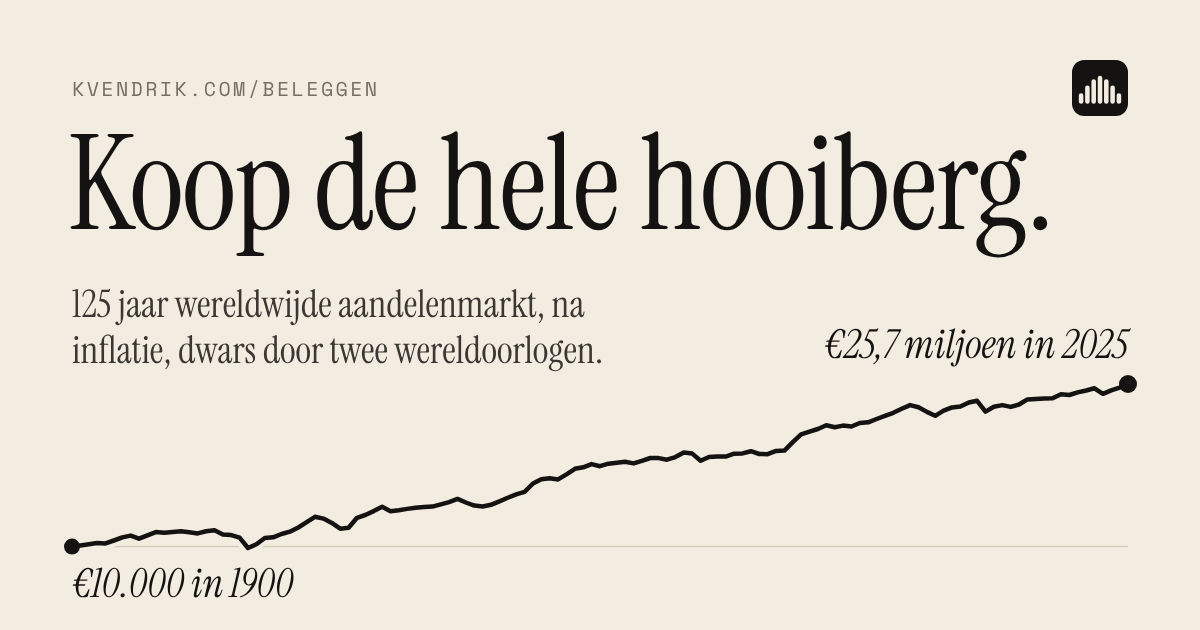
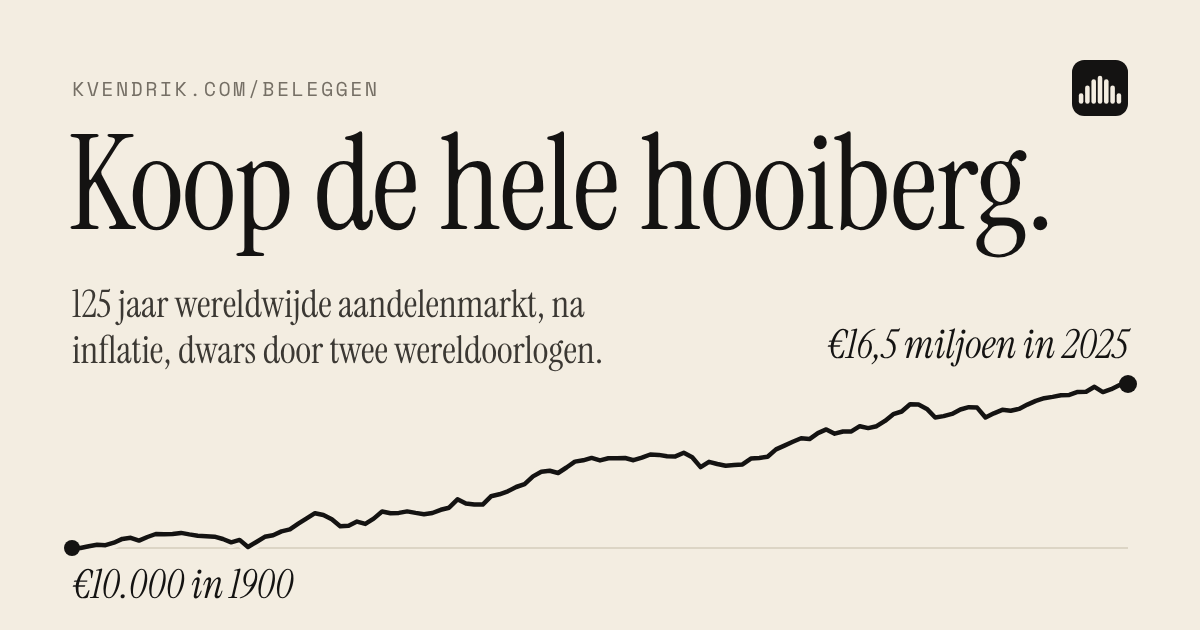
Euro history for the Dutch page, fewer nuances in the text, mixed funds
- /beleggen/ now shows history as a Dutch investor saw it: world stocks
  and bonds converted to guilders (euros from 1999) at year-end exchange
  rates and deflated by Dutch inflation (JST; 2021-2025 ECB and CBS). The
  guilder's 1946-1952 free-market rate is replaced by the official peg.
  EUR 10,000 in 1900 becomes EUR 16.5M (6.1% a year), against $25.7M.
  Switching language swaps the series and rebuilds every chart.
- Nuances leave the running text for tooltips: "history, not a promise"
  sits under "after inflation" by the big number; the note under the
  calculator tabs became a "?"; the years around retirement, lump sums and
  box 3 (being reworked) are one tap away.
- A "Just want to start? Four steps" link near the top.
- Step 3 names one-fund options: Vanguard FTSE All-World (VWRL), or one
  mixed fund such as LifeStrategy 80% (VGRO in Canada).

Claude-Session: https://claude.ai/code/session_01HLwVeDYz1TyXAk1VNp3cfb

diff --git a/public/investing/i18n.js b/public/investing/i18n.js
@@ -7,7 +7,10 @@ window.I18N = (function () {
   const en = {
     locale: "en-US", cur: "$", K: "K", M: "M", B: "B", Mlong: " million",
     title: "Buy the Haystack",
-    term_inflation: "Prices rise over time, so money buys a little less each year. “After inflation” means the numbers are corrected for that: they show what your money could buy, not just how many dollars it was.",
+    term_lumpsum: "In Vanguard’s research, putting a lump sum in at once beat spreading it over a year about two times in three, because markets rise more often than they fall. Spreading it out is fine if it helps you sleep.",
+    term_box3: "The Netherlands taxes savings and investments in box 3. The rules are being rewritten: a tax on actual returns is planned from 2028. Check the current rules on belastingdienst.nl before you start.",
+    term_withdraw: "A crash right before or after you start living off your savings hurts far more than one at 30: you sell low to pay the bills. A common rule of thumb is to take out about 3 to 4% of your savings in the first year, then adjust for inflation.",
+    term_inflation: "Prices rise over time, so money buys a little less each year. “After inflation” means these numbers are corrected for that: they show what your money could buy. And it’s history, not a promise: further down, we plan with less.",
     term_bonds: "A bond is a loan to a government or a company. It pays you a fixed interest and gives your money back at the end. Steadier than stocks, but it grows less.",
     term_ter: "The total expense ratio: what a fund charges each year, as a share of what you have in it. 0.2% means $2 a year for every $1,000.",
     term_broker: "The company where you open an account to buy and hold your funds, like a bank account for investments.",
@@ -16,7 +19,7 @@ window.I18N = (function () {
     term_correlation: "How closely two sets of numbers move together: 1 means in lockstep, 0 means no relation at all.",
     description: "Index investing in the whole world, the Bogle way: 125 years of stock returns, what an index fund is, what you own, and what your money could become.",
     dir: (up) => (up ? "up" : "down"),
-    period: (a, b, n) => `${a}–${b} · ${years(n, "year", "years")} · after inflation`,
+    period: (a, b, n) => `${a}–${b} · ${years(n, "year", "years")}`, afterInfl: "after inflation",
     hint: (touch) => (touch ? "Drag the edges to zoom in · drag across the chart for any year" : "Drag the edges to zoom in · hover the chart for any year"),
     at: (v, y) => `${v} in ${y}`,
     tipReturn: (p) => `${p} after inflation`,
@@ -56,15 +59,16 @@ window.I18N = (function () {
     mixAvgP: (a, b) => `growth after inflation, ${a}–${b}`, mixFall: "Deepest fall", mixFallP: "from a high to the bottom",
     mixDown: "Down years", mixDownP: "years that ended lower",
     mixDesc: (s, b, avg, worst, fall) => `With ${s}% stocks and ${b}% bonds from 1950 to 2025: ${avg} a year on average after inflation, worst year ${worst}, deepest fall ${fall}.`,
-    note: (exp, first, last, geo) => exp === "plan"
-      ? `Real years from ${first}–${last} in random order, each lowered a little so the average is 5% a year. The past is no promise, so planning with less is the careful choice.`
-      : `Real years from ${first}–${last} in random order, as they happened: ${geo} a year on average. That flatters the past a little, because markets that went to zero aren’t in the data.`,
+    note: (first, last, geo) => `Both draw real years from ${first}–${last} in random order. Plan lowers each year a little, so the average is 5%: the past is no promise, so planning with less is the careful choice. History uses them as they happened, ${geo} a year on average, which flatters the past a little: markets that went to zero aren’t in the data.`,
   };
 
   const nl = {
     locale: "nl-NL", cur: "€", K: "k", M: " mln", B: " mld", Mlong: " miljoen",
     title: "Koop de hele hooiberg",
-    term_inflation: "Prijzen stijgen, dus met geld koop je elk jaar iets minder. “Na inflatie” betekent dat de getallen daarvoor zijn gecorrigeerd: ze laten zien wat je geld kon kopen. Deze reeks volgt de wereldmarkt in dollars, na Amerikaanse inflatie; we tonen hem in euro’s. Voor een Nederlandse belegger liep het pad door wisselkoersen en Nederlandse inflatie anders, maar op lange termijn in dezelfde orde van grootte: wisselkoersen volgen op den duur grotendeels de verschillen in inflatie.",
+    term_lumpsum: "In onderzoek van Vanguard won alles in één keer inleggen het in ongeveer twee van de drie gevallen van spreiden over een jaar, omdat beurzen vaker stijgen dan dalen. Spreiden is prima als je er beter van slaapt.",
+    term_box3: "Nederland belast sparen en beleggen in box 3. Die regels worden herschreven: vanaf 2028 staat een belasting op het werkelijke rendement gepland. Kijk voor je begint naar de actuele regels op belastingdienst.nl.",
+    term_withdraw: "Een crash vlak voor of na het moment dat je van je spaargeld gaat leven, doet veel meer pijn dan een op je dertigste: je verkoopt laag om de rekeningen te betalen. Een gangbare vuistregel is in het eerste jaar zo’n 3 tot 4% op te nemen en dat daarna mee te laten groeien met de inflatie.",
+    term_inflation: "Prijzen stijgen, dus met geld koop je elk jaar iets minder. “Na inflatie” betekent dat de getallen daarvoor zijn gecorrigeerd: ze laten zien wat je geld kon kopen, zoals een Nederlandse belegger het zag, in guldens en euro’s. En het is geschiedenis, geen belofte: verderop rekenen we met minder.",
     term_bonds: "Een obligatie is een lening aan een overheid of bedrijf. Je krijgt een vaste rente en aan het eind je geld terug. Stabieler dan aandelen, maar het groeit minder.",
     term_ter: "De totale kostenratio: wat een fonds per jaar rekent, als deel van wat je erin hebt. 0,2% betekent €2 per jaar voor elke €1.000.",
     term_broker: "Het bedrijf waar je een rekening opent om fondsen te kopen en te bewaren, een soort bankrekening voor beleggingen.",
@@ -72,10 +76,10 @@ window.I18N = (function () {
     term_bp: "Een basispunt is een honderdste procentpunt. 0,44 basispunt is 0,0044%.",
     term_correlation: "Hoe sterk twee reeksen getallen samen bewegen: 1 is precies gelijk op, 0 is geen enkel verband.",
     description: "Wereldwijd indexbeleggen zoals Bogle het bedoelde: 125 jaar beursrendement, wat een indexfonds is, wat je bezit en wat je geld kan worden.",
-    ogDescription: "€10.000 in de wereldwijde aandelenmarkt in 1900 werd na inflatie €25,7 miljoen, dwars door twee wereldoorlogen heen. Waarom alles bezitten het simpelste plan is.",
-    ogImageAlt: "Koop de hele hooiberg. Een lijn die stijgt van €10.000 in 1900 naar €25,7 miljoen in 2025, na inflatie.",
+    ogDescription: "€10.000 in de wereldwijde aandelenmarkt in 1900 werd na inflatie €16,5 miljoen, dwars door twee wereldoorlogen heen. Waarom alles bezitten het simpelste plan is.",
+    ogImageAlt: "Koop de hele hooiberg. Een lijn die stijgt van €10.000 in 1900 naar €16,5 miljoen in 2025, na inflatie.",
     dir: (up) => (up ? "hoger" : "lager"),
-    period: (a, b, n) => `${a}–${b} · ${n} jaar · na inflatie`,
+    period: (a, b, n) => `${a}–${b} · ${n} jaar`, afterInfl: "na inflatie",
     hint: (touch) => (touch ? "Sleep aan de randen om in te zoomen · sleep over de grafiek voor een jaar" : "Sleep aan de randen om in te zoomen · wijs een jaar aan in de grafiek"),
     at: (v, y) => `${v} in ${y}`,
     tipReturn: (p) => `${p} na inflatie`,
@@ -115,9 +119,7 @@ window.I18N = (function () {
     mixAvgP: (a, b) => `groei na inflatie, ${a}–${b}`, mixFall: "Diepste daling", mixFallP: "van een top tot de bodem",
     mixDown: "Jaren in de min", mixDownP: "jaren die lager eindigden",
     mixDesc: (s, b, avg, worst, fall) => `Met ${s}% aandelen en ${b}% obligaties van 1950 tot 2025: gemiddeld ${avg} per jaar na inflatie, slechtste jaar ${worst}, diepste daling ${fall}.`,
-    note: (exp, first, last, geo) => exp === "plan"
-      ? `Echte jaren uit ${first}–${last} in willekeurige volgorde, elk iets verlaagd zodat het gemiddelde 5% per jaar is. Het verleden is geen belofte, dus rekenen met minder is de voorzichtige keuze.`
-      : `Echte jaren uit ${first}–${last} in willekeurige volgorde, zoals ze waren: gemiddeld ${geo} per jaar. Dat is iets te mooi, want beurzen die naar nul gingen zitten niet in de data.`,
+    note: (first, last, geo) => `Allebei trekken ze echte jaren uit ${first}–${last} in willekeurige volgorde. Plan verlaagt elk jaar iets, zodat het gemiddelde 5% is: het verleden is geen belofte, dus rekenen met minder is de voorzichtige keuze. Historisch gebruikt ze zoals ze waren, gemiddeld ${geo} per jaar. Dat is iets te mooi: beurzen die naar nul gingen zitten niet in de data.`,
   };
 
   const events = [
@@ -181,7 +183,7 @@ window.I18N = (function () {
     cite: "John C. Bogle, oprichter van Vanguard",
 
     "hist@aria-label": "125 jaar aandelen, wereldwijd",
-    histLede: "Twee wereldoorlogen, een pandemie, een depressie, oliecrises, bubbels en crashes. Ze deden allemaal pijn. Geen ervan hield de groei tegen. Alle bedragen zijn <button type=\"button\" class=\"term\" data-term=\"inflation\" aria-expanded=\"false\">na inflatie</button>. En het is geschiedenis, geen belofte: verderop rekenen we met minder.",
+    histLede: "Twee wereldoorlogen, een pandemie, een depressie, oliecrises, bubbels en crashes. Ze deden allemaal pijn. Geen ervan hield de groei tegen.",
     "view@aria-label": "Weergave",
     viewGrowth: "Groei", viewBars: "Per jaar",
     reset: "Toon alles",
@@ -190,7 +192,7 @@ window.I18N = (function () {
     evSum: "Wat er gebeurde in de slechte jaren",
     tableSum: "Alle cijfers per jaar",
     srcSum: "Bronnen",
-    source: "Alle bedragen zijn berekend in dollars, na Amerikaanse inflatie, en in euro’s getoond. Bronnen: 1900–2020, de Jordà-Schularick-Taylor Macrohistory Database (<a href=\"https://www.macrohistory.net/database/\">macrohistory.net</a>): totaalrendement op aandelen in 16 ontwikkelde landen, in Amerikaanse dollars, gewogen naar de omvang van elke economie, min de Amerikaanse inflatie. 2021–2025: het netto totaalrendement van de MSCI ACWI in dollars, min de Amerikaanse inflatie. De Duitse hyperinflatie van 1923 en de munthervorming van 1948 zijn weggelaten, omdat de data die jaren niet zuiver kan plaatsen. Deze reeks is iets te rooskleurig: beurzen die werden weggevaagd, zoals de Russische in 1917, en de slechtste oorlogsjaren van Duitsland en Japan ontbreken. Het Dimson-Marsh-Staunton Global Investment Returns Yearbook, dat Ben Felix vaak aanhaalt, telt die wel mee en komt uit op ongeveer 5% per jaar na inflatie sinds 1900. De bedragen staan hier in euro’s, maar gerekend is in dollars na Amerikaanse inflatie. Over zo’n lange periode ligt het rendement na inflatie voor een belegger in euro’s in dezelfde orde van grootte.",
+    source: "Op deze pagina omgerekend naar guldens (vanaf 1999 euro’s) met de wisselkoers aan het eind van elk jaar, voor 1946–1952 de officiële koers, en na Nederlandse inflatie (Jordà-Schularick-Taylor; vanaf 2021 ECB en CBS). Bronnen: 1900–2020, de Jordà-Schularick-Taylor Macrohistory Database (<a href=\"https://www.macrohistory.net/database/\">macrohistory.net</a>): totaalrendement op aandelen in 16 ontwikkelde landen, in Amerikaanse dollars, gewogen naar de omvang van elke economie, min de Amerikaanse inflatie. 2021–2025: het netto totaalrendement van de MSCI ACWI in dollars, min de Amerikaanse inflatie. De Duitse hyperinflatie van 1923 en de munthervorming van 1948 zijn weggelaten, omdat de data die jaren niet zuiver kan plaatsen. Deze reeks is iets te rooskleurig: beurzen die werden weggevaagd, zoals de Russische in 1917, en de slechtste oorlogsjaren van Duitsland en Japan ontbreken. Het Dimson-Marsh-Staunton Global Investment Returns Yearbook, dat Ben Felix vaak aanhaalt, telt die wel mee en komt uit op ongeveer 5% per jaar na inflatie sinds 1900. De bedragen staan hier in euro’s, maar gerekend is in dollars na Amerikaanse inflatie. Over zo’n lange periode ligt het rendement na inflatie voor een belegger in euro’s in dezelfde orde van grootte.",
 
     etfEye: "Het gereedschap",
     etfH: "Wat is een indexfonds?",
@@ -228,9 +230,9 @@ window.I18N = (function () {
     riskLede: "Aandelen laten je geld groeien, <button type=\"button\" class=\"term\" data-term=\"bonds\" aria-expanded=\"false\">obligaties</button> houden het stabiel. Hoe je die twee verdeelt is de enige grote keuze in dit plan, en die gaat over jou, niet over de markt.",
     sMix: "Aandelen",
     mixKeyAll: "100% aandelen",
-    riskP1: "Bogles vuistregel: houd ongeveer je leeftijd aan obligaties aan, dus 30% op je dertigste en 60% op je zestigste. Ben Felix zou eraan toevoegen dat leeftijd maar een deel van het verhaal is. Het gaat om hoeveel risico je je kunt veroorloven, hoeveel je nodig hebt om je doelen te halen, en hoeveel je kunt uitzitten zonder te verkopen. Geld dat je binnen een paar jaar nodig hebt, hoort helemaal niet in aandelen. De verdeling telt het zwaarst in de jaren vlak voor en na het moment dat je van je spaargeld gaat leven: een crash dan doet veel meer pijn dan een op je dertigste.",
+    riskP1: "Bogles vuistregel: houd ongeveer je leeftijd aan obligaties aan, dus 30% op je dertigste en 60% op je zestigste. Ben Felix zou eraan toevoegen dat leeftijd maar een deel van het verhaal is. Het gaat om hoeveel risico je je kunt veroorloven, hoeveel je nodig hebt om je doelen te halen, en hoeveel je kunt uitzitten zonder te verkopen. Geld dat je binnen een paar jaar nodig hebt, hoort helemaal niet in aandelen. De verdeling telt het zwaarst rond het moment dat je <button type=\"button\" class=\"term\" data-term=\"withdraw\" aria-expanded=\"false\">ervan gaat leven</button>.",
     riskP2: "<b>Rebalancen</b> houdt je verdeling waar je die koos. Eén keer per jaar, of als hij meer dan zo’n vijf procentpunt afwijkt, verkoop je een beetje van wat steeg en koop je bij wat daalde. Zo koop je vanzelf laag en verkoop je hoog, zonder iets te hoeven voorspellen.",
-    riskNote: "De grafiek toont 1995–2025 op een gewone schaal, zodat je de schommelingen ziet. De rente daalde in die jaren meestal, wat obligaties hielp, tot 2022: toen raakte de inflatie aandelen en obligaties tegelijk. De cijfers eronder gaan over 1950–2025, na inflatie. Obligaties: tot en met 2020 de staatsobligaties van dezelfde 16 landen, in dollars (Jordà-Schularick-Taylor); vanaf 2021 de Bloomberg Global Aggregate-obligatie-index, in dollars. Vanaf 1900 is het beeld voor obligaties harder: de inflatie rond de twee wereldoorlogen kostte ze ongeveer twee derde van hun waarde. Obligaties dempen crashes; ze beschermen je niet tegen inflatie. Dit zijn dollarobligaties zonder valuta-afdekking, die meer schommelen dan wat je zelf zou aanhouden: kies voor het obligatiedeel obligaties in euro’s of afgedekt naar de euro.",
+    riskNote: "De grafiek toont 1995–2025 op een gewone schaal, zodat je de schommelingen ziet. De rente daalde in die jaren meestal, wat obligaties hielp, tot 2022: toen raakte de inflatie aandelen en obligaties tegelijk. De cijfers eronder gaan over 1950–2025, na inflatie. Obligaties: tot en met 2020 de staatsobligaties van dezelfde 16 landen (Jordà-Schularick-Taylor), vanaf 2021 de Bloomberg Global Aggregate-obligatie-index; alles omgerekend naar euro’s en na Nederlandse inflatie. Vanaf 1900 is het beeld voor obligaties harder: de inflatie rond de twee wereldoorlogen kostte ze ongeveer twee derde van hun waarde. Obligaties dempen crashes; ze beschermen je niet tegen inflatie. Dit zijn buitenlandse obligaties zonder valuta-afdekking, die meer schommelen dan wat je zelf zou aanhouden: kies voor het obligatiedeel obligaties in euro’s of afgedekt naar de euro.",
     futEye: "Rente op rente, eerlijk berekend",
     futH: "Wat je geld kan worden",
     futLede: "Een rekenmachine met één vast rendement tekent een gladde lijn die in het echt nooit voorkomt. Deze rekent 10.000 mogelijke toekomsten door, elk opgebouwd uit echte beursjaren in willekeurige volgorde: goede jaren, slechte jaren en soms een paar slechte op rij.",
@@ -251,6 +253,8 @@ window.I18N = (function () {
     rule5: "<h3>Houd koers.</h3><p>Bogles motto. Het rendement in de grafiek hierboven ging naar wie na de slechte jaren nog belegd was, niet naar wie was uitgestapt.</p>",
 
     "h1": "Koop de hele hooiberg.",
+    "expQ@aria-label": "Wat is het verschil?",
+    "jump": "Wil je gewoon beginnen? Vier stappen ↓",
     /* footnotes */
     "fnNotes": "Toelichting &amp; bronnen",
     "fnCredits": "Bronnen van de tekeningen",
@@ -259,8 +263,8 @@ window.I18N = (function () {
     "stepsH": "Begin in vier stappen",
     "step1": "<h4>Eerst een buffer.</h4><p>Zet drie tot zes maanden aan uitgaven op een spaarrekening. Geld dat je binnen zo’n vijf jaar nodig hebt, hoort niet in aandelen.</p>",
     "step2": "<h4>Open een rekening.</h4><p>Elke <button type=\"button\" class=\"term\" data-term=\"broker\" aria-expanded=\"false\">broker</button> met een goedkoop wereldwijd indexfonds of ETF is prima. In Nederland doet <a href=\"https://www.meesman.nl/\">Meesman</a> sinds 2005 aan indexbeleggen: een wereldfonds dat de hele markt naar omvang volgt, met een licht filter dat de slechtste bedrijven weglaat. Vergelijk de totale kosten per jaar: fonds en platform samen.</p>",
-    "step3": "<h4>Kies één wereldfonds.</h4><p>Voeg een obligatiefonds toe als je een rustiger rit wilt, in de verdeling die je hierboven koos. Meer heb je niet nodig.</p>",
-    "step4": "<h4>Automatiseer het en kijk weg.</h4><p>Stel een maandelijkse overboeking in en laat die lopen; herbalanceer één keer per jaar. Heb je een bedrag ineens? In onderzoek van Vanguard won alles in één keer beleggen het in ongeveer twee van de drie gevallen van spreiden in de tijd, omdat beurzen vaker stijgen dan dalen. Spreiden is prima als je er beter van slaapt.</p>",
+    "step3": "<h4>Kies één fonds.</h4><p>Een wereldwijd aandelenfonds zoals <a href=\"https://www.nl.vanguard/professional/product/etf/equity/9505/vanguard-ftse-all-world-ucits-etf-usd-distributing\" rel=\"noopener\">FTSE All-World (VWRL)</a> van Vanguard is de hele hooiberg. Wil je er obligaties bij? Eén gemengd fonds doet allebei en herbalanceert voor je, zoals <a href=\"https://www.nl.vanguard/professional/product/etf/lifestrategy/9496/lifestrategy-80-equity-ucits-etf-eur-accumulating\" rel=\"noopener\">LifeStrategy 80%</a> van Vanguard: 80% aandelen, 20% obligaties.</p>",
+    "step4": "<h4>Automatiseer het en kijk weg.</h4><p>Stel een maandelijkse overboeking in en laat die lopen. Een bedrag ineens? Alles in één keer inleggen <button type=\"button\" class=\"term\" data-term=\"lumpsum\" aria-expanded=\"false\">wint meestal</button>. Over belasting: beleggingen vallen in box 3, en die wordt <button type=\"button\" class=\"term\" data-term=\"box3\" aria-expanded=\"false\">op de schop genomen</button>.</p>",
     /* esg */
     "esgEye": "Groen beleggen",
     "esgH": "Kun je alleen het groene deel kopen?",

diff --git a/public/investing/index.html b/public/investing/index.html
@@ -172,6 +172,13 @@ details+details{margin-top:0}
 .term-pop{position:absolute;z-index:30;width:max-content;max-width:min(320px,calc(100vw - 32px));padding:14px 16px;background:var(--ink);color:var(--paper);font:400 15px/1.5 var(--f-body);border-radius:2px;box-shadow:0 10px 30px -12px rgba(20,19,18,.55);transform-origin:var(--ox,50%) top;animation:term-in .18s var(--ease)}
 .term-pop[hidden]{display:none}
 @keyframes term-in{from{opacity:0;transform:translateY(-4px) scale(.98)}}
+.seg-q{display:inline-flex;align-items:center;gap:var(--s-3)}
+.term.term-q{position:relative;display:inline-grid;place-items:center;width:30px;height:30px;border:1.5px solid var(--ink);border-radius:50%;font:700 13px/1 var(--f-mono);text-decoration:none;cursor:pointer}
+.term.term-q::before{content:"";position:absolute;inset:-8px}
+.term.term-q[aria-expanded="true"]{background:var(--ink);color:var(--paper)}
+.jump{display:inline-flex;align-items:center;min-height:44px;margin-top:var(--s-3);color:var(--ink-2);text-decoration:underline;text-decoration-color:var(--rule);text-underline-offset:4px}
+@media (hover:hover) and (pointer:fine){.jump:hover{text-decoration-color:var(--ink)}}
+.steps{scroll-margin-top:var(--s-6)}
 /* start in four steps */
 .steps{margin-top:var(--s-9)}
 .steps-h{font-size:var(--t-h2);line-height:1.05;margin:var(--s-3) 0 var(--s-6)}
@@ -460,6 +467,7 @@ table.data :is(th,td):first-child{text-align:left}
   <header class="hero">
     <h1 data-t="h1">Buy the haystack.</h1>
     <p class="lede" data-t="heroLede">A slow, boring and very old way to grow money: own a little of every company in the world, pay almost nothing for it, and wait.</p>
+    <a class="jump mono" href="#start" data-t="jump">Just want to start? Four steps ↓</a>
     <div class="callout">
       <p class="count"><span class="from" id="calloutFrom">$10,000</span><span class="tail"><span class="arrow">→</span><span class="to" id="calloutTo"></span></span></p>
       <span class="mono tab" id="period"></span>
@@ -491,7 +499,7 @@ table.data :is(th,td):first-child{text-align:left}
   </header>
 
   <section id="history" class="more" aria-label="125 years of the world’s stock market" data-ta="hist@aria-label">
-    <p class="lede" data-t="histLede">Two world wars, a pandemic, a depression, oil shocks, bubbles and crashes. Every one of them hurt. None of them stopped it. All numbers are <button type="button" class="term" data-term="inflation" aria-expanded="false">after inflation</button>. And it’s history, not a promise: further down, we plan with less.</p>
+    <p class="lede" data-t="histLede">Two world wars, a pandemic, a depression, oil shocks, bubbles and crashes. Every one of them hurt. None of them stopped it.</p>
 
 
     <div class="stats" id="histStats"></div>
@@ -639,7 +647,7 @@ table.data :is(th,td):first-child{text-align:left}
     <p class="sr-only" id="mixDesc"></p>
     <div class="stats" id="mixStats"></div>
     <div class="prose">
-      <p data-t="riskP1">Bogle’s rule of thumb was to hold roughly your age in bonds: 30% at 30, 60% at 60. Ben Felix would add that age is only part of it. What counts is how much risk you can afford, how much you need to reach your goals, and how much you can sit through without selling. Money you’ll need within a few years doesn’t belong in stocks at all. The mix matters most in the years just before and after you start living off your savings: a crash then hurts far more than one at 30.</p>
+      <p data-t="riskP1">Bogle’s rule of thumb was to hold roughly your age in bonds: 30% at 30, 60% at 60. Ben Felix would add that age is only part of it. What counts is how much risk you can afford, how much you need to reach your goals, and how much you can sit through without selling. Money you’ll need within a few years doesn’t belong in stocks at all. The mix matters most around the time you start <button type="button" class="term" data-term="withdraw" aria-expanded="false">living off it</button>.</p>
       <p data-t="riskP2"><b>Rebalancing</b> keeps your mix where you chose it. Once a year, or when it drifts more than about five percentage points, sell a little of what grew and buy what fell. It quietly makes you buy low and sell high, without having to predict anything.</p>
     </div>
     <details class="fn"><summary data-t="fnNotes">Notes &amp; sources</summary><p class="note" data-t="riskNote">The chart shows 1995–2025 on a normal scale, so the swings are visible. Interest rates mostly fell in those years, which helped bonds, until 2022, when inflation hit stocks and bonds at the same time. The numbers under it cover 1950–2025, after inflation. Bonds: until 2020 the government bonds of the same 16 countries, in US dollars (Jordà-Schularick-Taylor); from 2021 the Bloomberg Global Aggregate bond index, in US dollars. From 1900 the picture is harsher for bonds: the inflation around the two world wars took about two thirds of their value. Bonds soften crashes; they don’t protect you from inflation. These are unhedged dollar bonds, which swing more than what you’d hold: for the bond half, pick bonds in your own currency or hedged to it.</p></details>
@@ -659,12 +667,14 @@ table.data :is(th,td):first-child{text-align:left}
     <p class="note" style="margin-top:12px" data-t="dragHint">Drag a box sideways, or tap the number to type.</p>
 
     <div class="controls">
-      <div class="seg" role="group" aria-label="Which return to plan with" data-ta="exp@aria-label">
-        <button type="button" data-exp="plan" aria-pressed="true" data-t="expPlan">Plan · 5%</button>
-        <button type="button" data-exp="hist" aria-pressed="false" id="expHist">History</button>
+      <div class="seg-q">
+        <div class="seg" role="group" aria-label="Which return to plan with" data-ta="exp@aria-label">
+          <button type="button" data-exp="plan" aria-pressed="true" data-t="expPlan">Plan · 5%</button>
+          <button type="button" data-exp="hist" aria-pressed="false" id="expHist">History</button>
+        </div>
+        <button type="button" class="term term-q" data-term="exp" id="expQ" aria-expanded="false" aria-label="What’s the difference?" data-ta="expQ@aria-label">?</button>
       </div>
     </div>
-    <p class="note" id="expNote" style="margin-top:0"></p>
 
     <div class="chart" id="mcChart" style="margin-top:20px"><svg id="mcSvg" role="img" aria-label="Fan chart of simulated portfolio values over time" data-ta="mcSvg@aria-label"></svg><div class="tip" id="mcTip" role="status" aria-live="polite"></div></div>
     <div class="legend mono">
@@ -689,14 +699,14 @@ table.data :is(th,td):first-child{text-align:left}
       <div><span class="k">04</span><div data-t="rule4"><h3>Match the risk to your stomach.</h3><p>Stocks can fall by half and stay down for years. If you would sell in a crash, hold some bonds so you won’t. The best plan is the one you can stick to.</p></div></div>
       <div><span class="k">05</span><div data-t="rule5"><h3>Stay the course.</h3><p>Bogle’s phrase. The returns on the chart above went to the people who were still holding after the bad years, not to those who left.</p></div></div>
     </div>
-    <div class="steps">
+    <div class="steps" id="start">
       <span class="mono" data-t="stepsEye">Getting started</span>
       <h3 class="steps-h" data-t="stepsH">Start in four steps</h3>
       <ol class="steps-list">
         <li data-t="step1"><h4>Keep a buffer first.</h4><p>Put three to six months of expenses in a savings account. Money you need within about five years doesn’t belong in stocks.</p></li>
         <li data-t="step2"><h4>Open an account.</h4><p>Any <button type="button" class="term" data-term="broker" aria-expanded="false">broker</button> that sells a cheap total-world index fund or ETF will do. In the Netherlands, <a href="https://www.meesman.nl/">Meesman</a> has done index investing since 2005: a world fund that follows the whole market by size, with a light filter that leaves out the worst companies. Compare the total yearly costs: fund and platform together.</p></li>
-        <li data-t="step3"><h4>Pick one world fund.</h4><p>Add a bond fund if you want a calmer ride, in the mix you chose above. That’s the whole portfolio.</p></li>
-        <li data-t="step4"><h4>Automate it, then look away.</h4><p>Set up a monthly transfer and let it run; rebalance once a year. Got a lump sum? Investing it at once beat spreading it out about two times in three in Vanguard’s research, because markets rise more often than they fall. Spreading it out is fine if it helps you sleep.</p></li>
+        <li data-t="step3"><h4>Pick one fund.</h4><p>A world stock fund like Vanguard’s <a href="https://www.nl.vanguard/professional/product/etf/equity/9505/vanguard-ftse-all-world-ucits-etf-usd-distributing" rel="noopener">FTSE All-World (VWRL)</a> is the whole haystack. Want bonds in it too? One mixed fund does both and rebalances for you, like Vanguard’s <a href="https://www.nl.vanguard/professional/product/etf/lifestrategy/9496/lifestrategy-80-equity-ucits-etf-eur-accumulating" rel="noopener">LifeStrategy 80%</a> or, in Canada, VGRO: 80% stocks, 20% bonds.</p></p></li>
+        <li data-t="step4"><h4>Automate it, then look away.</h4><p>Set up a monthly transfer and let it run. Got a lump sum? Putting it in at once <button type="button" class="term" data-term="lumpsum" aria-expanded="false">usually wins</button>. On taxes: in the Netherlands, investments fall under box 3, which is <button type="button" class="term" data-term="box3" aria-expanded="false">being reworked</button>.</p></p></li>
       </ol>
     </div>
     <figure class="pull"><blockquote data-t="qGraham">“The investor’s chief problem — and even his worst enemy — is likely to be himself.”</blockquote><figcaption class="mono" data-t="qGrahamBy">Benjamin Graham, The Intelligent Investor</figcaption></figure>
@@ -740,8 +750,8 @@ table.data :is(th,td):first-child{text-align:left}
   </footer>
 </main>
 
-<script src="/investing/returns.js?v=3"></script>
-<script src="/investing/i18n.js?v=25"></script>
-<script src="/investing/app.js?v=20"></script>
+<script src="/investing/returns.js?v=4"></script>
+<script src="/investing/i18n.js?v=26"></script>
+<script src="/investing/app.js?v=21"></script>
 </body>
 </html>

diff --git a/public/investing/returns.js b/public/investing/returns.js
@@ -1,2 +1,2 @@
-/* Real (after US inflation) yearly returns in US dollars of a world stock portfolio (real) and world government bonds (bonds). Built by scripts/investing-returns.py */
-window.WORLD = {"first": 1900, "real": [0.0574, 0.0588, 0.0624, -0.0226, 0.1532, 0.1576, 0.0909, -0.1366, 0.1779, 0.1664, -0.0281, 0.0414, 0.0342, -0.0476, -0.0566, 0.1114, 0.0424, -0.1813, -0.0288, -0.1203, -0.391, 0.1945, 0.3587, 0.0341, 0.1698, 0.1172, 0.2256, 0.296, 0.2944, -0.0843, -0.1867, -0.2454, 0.0538, 0.6136, 0.1415, 0.2073, 0.233, -0.1942, 0.0531, 0.0616, 0.0632, 0.0287, 0.023, 0.1203, 0.1107, 0.1684, -0.1621, -0.1392, -0.0409, 0.0841, 0.1816, 0.1885, 0.1857, 0.1257, 0.4913, 0.2347, 0.0501, -0.0588, 0.2786, 0.309, 0.0708, 0.1694, -0.0963, 0.1254, 0.0454, 0.0486, -0.0725, 0.1358, 0.1448, -0.0062, -0.0734, 0.1332, 0.2391, -0.0465, -0.2885, 0.1934, 0.021, -0.0021, 0.1525, 0.0159, 0.1125, -0.1283, -0.0088, 0.1732, 0.0137, 0.5073, 0.4585, 0.1387, 0.1348, 0.1931, -0.0866, 0.0822, -0.0465, 0.1866, 0.0344, 0.1734, 0.1596, 0.1645, 0.2131, 0.1965, -0.0974, -0.2044, -0.1729, 0.2802, 0.1729, 0.0417, 0.218, 0.0844, -0.4061, 0.2689, 0.0777, -0.0796, 0.1202, 0.2823, 0.0244, 0.0164, 0.0114, 0.2148, -0.0362, 0.1346, 0.0981, 0.1075, -0.2331, 0.1824, 0.1419, 0.1915], "bonds": [0.0173, 0.0154, 0.0273, -0.0129, 0.0091, 0.0565, 0.0054, -0.043, 0.0631, 0.0546, -0.0178, 0.0182, -0.0169, -0.0092, -0.0019, -0.0252, -0.0976, -0.158, -0.0934, -0.2421, -0.3292, 0.2101, 0.0887, -0.0229, 0.0248, 0.0231, 0.021, 0.1264, 0.0725, 0.0493, 0.0921, 0.0323, 0.2123, 0.33, 0.2551, -0.0117, 0.019, -0.076, 0.0476, -0.007, 0.0349, 0.0172, -0.107, -0.0457, -0.0002, 0.0381, -0.1585, -0.1863, -0.0666, 0.0111, 0.0538, -0.1113, 0.0513, 0.0497, 0.0617, 0.0079, -0.048, -0.0051, 0.0079, 0.0133, 0.0621, 0.0215, 0.0722, 0.0107, 0.0282, 0.0033, 0.0052, -0.0314, -0.0148, -0.068, 0.0179, 0.1568, 0.0302, -0.0352, -0.0799, -0.0157, 0.0333, 0.0979, 0.0397, -0.1013, -0.0834, -0.1322, 0.1184, -0.0298, 0.0237, 0.3112, 0.2856, 0.136, 0.0089, 0.0373, 0.0715, 0.1333, 0.0194, 0.1517, -0.044, 0.2232, 0.016, 0.0409, 0.1537, -0.0972, 0.0414, -0.0237, 0.2008, 0.0968, 0.0825, -0.0358, 0.0149, 0.0632, 0.1202, -0.0315, 0.0513, 0.1115, 0.0432, -0.0844, 0.1078, -0.0405, 0.0079, 0.0555, -0.0385, 0.0768, 0.1023, -0.1097, -0.2133, 0.0229, -0.0445, 0.0535]};
+/* Real yearly returns of a world stock portfolio and world government bonds: in US dollars after US inflation (real, bonds), and in guilders/euros after Dutch inflation (realEur, bondsEur). Built by scripts/investing-returns.py */
+window.WORLD = {"first": 1900, "real": [0.0574, 0.0588, 0.0624, -0.0226, 0.1532, 0.1576, 0.0909, -0.1366, 0.1779, 0.1664, -0.0281, 0.0414, 0.0342, -0.0476, -0.0566, 0.1114, 0.0424, -0.1813, -0.0288, -0.1203, -0.391, 0.1945, 0.3587, 0.0341, 0.1698, 0.1172, 0.2256, 0.296, 0.2944, -0.0843, -0.1867, -0.2454, 0.0538, 0.6136, 0.1415, 0.2073, 0.233, -0.1942, 0.0531, 0.0616, 0.0632, 0.0287, 0.023, 0.1203, 0.1107, 0.1684, -0.1621, -0.1392, -0.0409, 0.0841, 0.1816, 0.1885, 0.1857, 0.1257, 0.4913, 0.2347, 0.0501, -0.0588, 0.2786, 0.309, 0.0708, 0.1694, -0.0963, 0.1254, 0.0454, 0.0486, -0.0725, 0.1358, 0.1448, -0.0062, -0.0734, 0.1332, 0.2391, -0.0465, -0.2885, 0.1934, 0.021, -0.0021, 0.1525, 0.0159, 0.1125, -0.1283, -0.0088, 0.1732, 0.0137, 0.5073, 0.4585, 0.1387, 0.1348, 0.1931, -0.0866, 0.0822, -0.0465, 0.1866, 0.0344, 0.1734, 0.1596, 0.1645, 0.2131, 0.1965, -0.0974, -0.2044, -0.1729, 0.2802, 0.1729, 0.0417, 0.218, 0.0844, -0.4061, 0.2689, 0.0777, -0.0796, 0.1202, 0.2823, 0.0244, 0.0164, 0.0114, 0.2148, -0.0362, 0.1346, 0.0981, 0.1075, -0.2331, 0.1824, 0.1419, 0.1915], "bonds": [0.0173, 0.0154, 0.0273, -0.0129, 0.0091, 0.0565, 0.0054, -0.043, 0.0631, 0.0546, -0.0178, 0.0182, -0.0169, -0.0092, -0.0019, -0.0252, -0.0976, -0.158, -0.0934, -0.2421, -0.3292, 0.2101, 0.0887, -0.0229, 0.0248, 0.0231, 0.021, 0.1264, 0.0725, 0.0493, 0.0921, 0.0323, 0.2123, 0.33, 0.2551, -0.0117, 0.019, -0.076, 0.0476, -0.007, 0.0349, 0.0172, -0.107, -0.0457, -0.0002, 0.0381, -0.1585, -0.1863, -0.0666, 0.0111, 0.0538, -0.1113, 0.0513, 0.0497, 0.0617, 0.0079, -0.048, -0.0051, 0.0079, 0.0133, 0.0621, 0.0215, 0.0722, 0.0107, 0.0282, 0.0033, 0.0052, -0.0314, -0.0148, -0.068, 0.0179, 0.1568, 0.0302, -0.0352, -0.0799, -0.0157, 0.0333, 0.0979, 0.0397, -0.1013, -0.0834, -0.1322, 0.1184, -0.0298, 0.0237, 0.3112, 0.2856, 0.136, 0.0089, 0.0373, 0.0715, 0.1333, 0.0194, 0.1517, -0.044, 0.2232, 0.016, 0.0409, 0.1537, -0.0972, 0.0414, -0.0237, 0.2008, 0.0968, 0.0825, -0.0358, 0.0149, 0.0632, 0.1202, -0.0315, 0.0513, 0.1115, 0.0432, -0.0844, 0.1078, -0.0405, 0.0079, 0.0555, -0.0385, 0.0768, 0.1023, -0.1097, -0.2133, 0.0229, -0.0445, 0.0535], "realEur": [0.001, 0.0856, 0.0681, -0.0208, 0.1187, 0.1849, 0.0513, -0.1191, 0.1797, 0.1421, -0.0106, 0.014, 0.0488, -0.0643, -0.0587, -0.021, -0.0213, -0.0985, -0.1419, 0.1149, -0.2735, 0.2554, 0.2641, 0.0724, 0.1888, 0.0954, 0.2956, 0.2738, 0.2592, -0.0763, -0.1772, -0.2693, 0.0219, 0.2033, -0.0969, 0.2726, 0.3757, -0.0746, 0.0137, 0.0699, -0.0634, -0.057, 0.0569, 0.1535, 0.0971, 0.4639, -0.1679, -0.0508, -0.003, 0.4517, 0.0955, 0.1462, 0.2128, 0.1402, 0.4165, 0.2308, 0.0458, -0.0921, 0.28, 0.3055, 0.0621, 0.114, -0.1061, 0.1026, -0.001, 0.0121, -0.0963, 0.1225, 0.1543, -0.0197, -0.0608, -0.0046, 0.1756, -0.1789, -0.3605, 0.2676, -0.095, -0.074, 0.0292, 0.0328, 0.2976, 0.0359, 0.0555, 0.3892, 0.1842, 0.1911, 0.1723, -0.0381, 0.3129, 0.1802, -0.1746, 0.1006, 0.0045, 0.2688, -0.0817, 0.0902, 0.2674, 0.3513, 0.131, 0.3908, -0.0156, -0.1781, -0.3202, 0.0634, 0.1017, 0.2252, 0.1081, -0.0179, -0.3618, 0.2098, 0.1702, -0.0431, 0.0911, 0.214, 0.1796, 0.1329, 0.0569, 0.0767, 0.0178, 0.1467, 0.0066, 0.2505, -0.2119, 0.1364, 0.2097, 0.0471], "bondsEur": [-0.0369, 0.0411, 0.0328, -0.011, -0.0211, 0.0814, -0.0311, -0.0237, 0.0647, 0.0326, -0.0001, -0.0086, -0.003, -0.0265, -0.004, -0.1413, -0.1527, -0.0729, -0.199, -0.0395, -0.1998, 0.2717, 0.013, 0.0132, 0.0414, 0.0031, 0.0793, 0.1071, 0.0434, 0.0585, 0.105, -0.0004, 0.1756, -0.0082, -0.007, 0.0417, 0.137, 0.0612, 0.0084, 0.0008, -0.0883, -0.0675, -0.0774, -0.0175, -0.0124, 0.3006, -0.1643, -0.1027, -0.0296, 0.354, -0.0229, -0.1429, 0.0753, 0.0633, 0.0085, 0.0047, -0.0518, -0.0403, 0.009, 0.0106, 0.0535, -0.0269, 0.0606, -0.0097, -0.0174, -0.0316, -0.0207, -0.0428, -0.0066, -0.0807, 0.0317, 0.0161, -0.0226, -0.1691, -0.173, 0.0456, -0.0841, 0.0188, -0.0715, -0.0863, 0.0691, 0.0313, 0.191, 0.1488, 0.1959, 0.0361, 0.0334, -0.0403, 0.1672, 0.0261, -0.0318, 0.1526, 0.0739, 0.2314, -0.1513, 0.1364, 0.1105, 0.2078, 0.0757, 0.0494, 0.1358, 0.0086, -0.013, -0.0889, 0.0168, 0.1341, -0.0767, -0.0372, 0.2037, -0.0766, 0.1416, 0.1554, 0.0161, -0.1332, 0.2756, 0.0695, 0.0532, -0.0645, 0.0155, 0.0883, 0.0105, 0.0053, -0.1915, -0.0169, 0.0122, -0.0741]};

diff --git a/public/investing/app.js b/public/investing/app.js
@@ -36,11 +36,21 @@ const haptic = (() => {
 })();
 
 /* ---------- data ---------- */
-const R = W.real, N = R.length, FIRST = W.first, YEARS = R.map((_, i) => FIRST + i), LAST = YEARS[N - 1];
-const CUM = []; // what $1 put in at the start of FIRST was worth at the end of each year, after inflation
-R.reduce((v, r, i) => (CUM[i] = v * (1 + r)), 1);
-const GEO = CUM[N - 1] ** (1 / N) - 1; // the compound yearly rate history delivered
-const MU = Math.log(1 + GEO);
+// Two versions of the same history: in dollars after US inflation, and as a Dutch investor saw it, in
+// guilders and euros after Dutch inflation. The Dutch page uses the second; switching language swaps them.
+const N = W.real.length, FIRST = W.first, YEARS = W.real.map((_, i) => FIRST + i), LAST = YEARS[N - 1];
+let R = W.real, BONDS = W.bonds || [], M1 = BONDS.length, GEO = 0, MU = 0;
+const CUM = []; // what 1 put in at the start of FIRST was worth at the end of each year, after inflation
+function useSeries(lang) {
+  const eur = lang === "nl" && W.realEur;
+  R = eur ? W.realEur : W.real;
+  BONDS = (eur ? W.bondsEur : W.bonds) || [];
+  M1 = BONDS.length; // bonds: JST to 2020, then the Bloomberg Global Aggregate
+  R.reduce((v, r, i) => (CUM[i] = v * (1 + r)), 1);
+  GEO = CUM[N - 1] ** (1 / N) - 1; // the compound yearly rate history delivered
+  MU = Math.log(1 + GEO);
+}
+useSeries("en");
 const PLAN = 0.05; // the planning return: about what the full record (DMS) shows once lost markets count
 const START = 10000; // Bogle's chart: what $10,000 became
 
@@ -55,7 +65,9 @@ let LANG = (() => {
   if (s === "en" || s === "nl") return s;
   return /^nl\b/i.test(navigator.language || "") ? "nl" : "en";
 })();
+useSeries(LANG);
 const L = () => I[LANG];
+const PERIOD_TERM = () => `<button type="button" class="term" data-term="inflation" aria-expanded="false">${t("afterInfl")}</button>`;
 const t = (k, ...a) => { const v = I[LANG][k]; return typeof v === "function" ? v(...a) : v; };
 const nf = (v, d = 0) => v.toLocaleString(L().locale, { minimumFractionDigits: d, maximumFractionDigits: d });
 const int = (v) => nf(Math.round(v));
@@ -310,7 +322,7 @@ function paintIntro() {
   if (dot) { dot.setAttribute("cx", x.toFixed(1)); dot.setAttribute("cy", g.LY(v).toFixed(1)); }
   const yr = Math.min(LAST, FIRST + Math.floor(f));
   $("#calloutTo").textContent = usdBig(START * v);
-  $("#period").textContent = t("period", FIRST, yr, yr - FIRST + 1);
+  $("#period").innerHTML = esc(t("period", FIRST, yr, yr - FIRST + 1)) + " · " + PERIOD_TERM();
 }
 function playIntro() {
   if (H.intro >= 1) return;
@@ -415,7 +427,7 @@ function paintBrush() {
   set($("#hR"), t("endOf"), YEARS[H.a] + MINSPAN - 1, LAST, YEARS[H.b]);
   $("#resetZoom").hidden = H.a === 0 && H.b === N - 1;
   if (H.intro < 1) return;
-  $("#period").textContent = t("period", YEARS[H.a], YEARS[H.b], H.b - H.a + 1);
+  $("#period").innerHTML = esc(t("period", YEARS[H.a], YEARS[H.b], H.b - H.a + 1)) + " · " + PERIOD_TERM();
   $("#calloutTo").textContent = usdBig(START * CUM[H.b] / (H.a ? CUM[H.a - 1] : 1));
 }
 let periodFrame = 0;
@@ -614,7 +626,7 @@ function bindOwn() {
 }
 
 /* ---------- risk: a mix of stocks and bonds, 1950-2025 ---------- */
-const BONDS = W.bonds || [], MIX_FROM = 1950, M0 = MIX_FROM - FIRST, M1 = BONDS.length; // bonds: JST to 2020, then the Bloomberg Global Aggregate
+const MIX_FROM = 1950, M0 = MIX_FROM - FIRST;
 const CHART_FROM = 1995; // the chart: recent enough to remember, with two big crashes in it
 function mixRun(w, from = MIX_FROM) {
   let v = 1, peak = 1, fall = 0, worst = Infinity, wy = from, down = 0;
@@ -795,7 +807,7 @@ function mcTip(y, py) {
 }
 function expText() {
   $("#expHist").textContent = t("expHist", pctU(GEO));
-  $("#expNote").textContent = t("note", EXP, FIRST, LAST, pctU(GEO));
+  $("#expQ").dataset.tip = t("note", FIRST, LAST, pctU(GEO));
 }
 function bindMC() {
   const svg = $("#mcSvg");
@@ -1025,7 +1037,7 @@ function bindTerms() {
   };
   const show = (btn) => {
     close();
-    pop.textContent = t("term_" + btn.dataset.term) || "";
+    pop.textContent = btn.dataset.tip || t("term_" + btn.dataset.term) || "";
     pop.hidden = false;
     const r = btn.getBoundingClientRect(), pw = pop.offsetWidth, ph = pop.offsetHeight, pad = 16;
     const left = clamp(r.left + r.width / 2 - pw / 2, pad, innerWidth - pw - pad);
@@ -1065,11 +1077,13 @@ function setLang(lang) {
   if (lang === LANG) return;
   const vals = FIELDS.map((id) => num($("#" + id), 0)); // read in the old language, write in the new one
   LANG = lang;
+  useSeries(lang);
   store.set("investing-lang", lang);
   syncUrl();
   closeTerm();
   applyStatic();
   FIELDS.forEach((id, k) => ($("#" + id).value = fmtField(id, vals[k])));
+  if (MC) simulate(); // the forecast draws from the other history now (after the inputs speak the new language)
   historyLists(); periodStats(); paintBrush(); heroText();
   if (H.shown) drawHistory();
   hay.relabel(); fees(); own(); expText(); drawMC(); drawMix(); drawEsg();

diff --git a/scripts/investing-returns.py b/scripts/investing-returns.py
@@ -33,6 +33,18 @@ RECENT = {y: (_ACWI[y], _DEC[y] / _DEC[y - 1] - 1) for y in _ACWI}
 # matching the press at the time (2021 about -4.8%, 2022 a record -16.3%, 2023 a little under 6%).
 _GLOBAL_AGG = {2021: -0.0471, 2022: -0.1625, 2023: 0.0572, 2024: -0.0169, 2025: 0.0817}
 
+# The same portfolios as a Dutch investor saw them: dollar returns turned into guilders (euros from 1999,
+# kept in guilder units at 2.20371) with the year-end exchange rate, then minus Dutch inflation.
+# JST's guilder rate for 1946-1952 is a free-market rate (6.5 per dollar in 1946); the official rate was
+# pegged at 2.65 until the September 1949 devaluation, then 3.80. A Dutch saver's foreign holdings were
+# valued at the official rate, so those years use it.
+NLG_OFFICIAL = {1946: 2.65, 1947: 2.65, 1948: 2.65, 1949: 3.80, 1950: 3.80, 1951: 3.80, 1952: 3.80}
+NLG_PER_EUR = 2.20371
+# after JST: ECB euro reference rate on the last business day of the year (dollars per euro), and
+# CBS yearly average Dutch inflation (the JST price index is a yearly average too)
+_EURUSD = {2020: 1.2271, 2021: 1.1326, 2022: 1.0666, 2023: 1.1050, 2024: 1.0389, 2025: 1.1750}
+_NL_INFL = {2021: 0.027, 2022: 0.100, 2023: 0.038, 2024: 0.033, 2025: 0.033}
+
 # Germany's hyperinflation (1923) and currency reform (1948) put the yearly return and the year-end
 # exchange rate on different footings, which gives offsetting spikes (+830% then -87%, -87% then +700%).
 # Each pair nets out close to flat, so leave both years of each pair out.
@@ -89,6 +101,12 @@ def main(path):
     us_cpi = {y: num(by.get(("USA", y), {}).get("cpi")) for y in years}
 
     out, bonds, ever = [], [], set()
+    real_eur, bonds_eur = [], []
+    nl_xr = {y: NLG_OFFICIAL.get(y, num(by.get(("NLD", y), {}).get("xrusd"))) for y in years}
+    nl_cpi = {y: num(by.get(("NLD", y), {}).get("cpi")) for y in years}
+
+    def to_eur(nominal_usd, fx_ratio, infl_nl):
+        return (1 + nominal_usd) * fx_ratio / (1 + infl_nl) - 1
     for y in range(1900, years[-1] + 1):
         tot_w, acc, used = 0.0, 0.0, []
         b_w, b_acc = 0.0, 0.0
@@ -119,6 +137,9 @@ def main(path):
         real = (1 + nominal) / (1 + infl) - 1
         out.append((y, real))
         bonds.append((1 + b_acc / b_w) / (1 + infl) - 1)
+        fx, infl_nl = nl_xr[y] / nl_xr[y - 1], nl_cpi[y] / nl_cpi[y - 1] - 1
+        real_eur.append(to_eur(nominal, fx, infl_nl))
+        bonds_eur.append(to_eur(b_acc / b_w, fx, infl_nl))
 
     last = out[-1][0]
     for y in sorted(RECENT):
@@ -127,7 +148,12 @@ def main(path):
         nominal, infl = RECENT[y]
         out.append((y, (1 + nominal) / (1 + infl) - 1))
         bonds.append((1 + _GLOBAL_AGG[y]) / (1 + infl) - 1)
-    assert len(bonds) == len(out), "bonds and stocks must cover the same years"
+        fx = (NLG_PER_EUR / _EURUSD[y]) / (NLG_PER_EUR / _EURUSD[y - 1])
+        real_eur.append(to_eur(nominal, fx, _NL_INFL[y]))
+        bonds_eur.append(to_eur(_GLOBAL_AGG[y], fx, _NL_INFL[y]))
+    assert len(bonds) == len(out) == len(real_eur) == len(bonds_eur), "every series must cover the same years"
+    # the hand-off from JST to the ECB rate must be seamless: JST's 2020 guilder rate is the ECB's 2020 rate
+    assert abs(nl_xr[last] - NLG_PER_EUR / _EURUSD[last]) < 0.002, (nl_xr[last], NLG_PER_EUR / _EURUSD[last])
 
     first = out[0][0]
     assert [y for y, _ in out] == list(range(first, out[-1][0] + 1)), "gap in years"
@@ -138,8 +164,13 @@ def main(path):
     for r in real:
         g *= 1 + r
     sys.stderr.write(f"geometric real {g ** (1 / len(real)) - 1:.4f}, $1 -> {g:.1f}, min {min(real)}, max {max(real)}\n")
-    print("/* Real (after US inflation) yearly returns in US dollars of a world stock portfolio (real) and world government bonds (bonds). Built by scripts/investing-returns.py */")
-    print("window.WORLD = " + json.dumps({"first": first, "real": real, "bonds": [round(b, 4) for b in bonds]}) + ";")
+    print("/* Real yearly returns of a world stock portfolio and world government bonds: in US dollars after US inflation (real, bonds), and in guilders/euros after Dutch inflation (realEur, bondsEur). Built by scripts/investing-returns.py */")
+    ge = 1.0
+    for r in real_eur:
+        ge *= 1 + r
+    sys.stderr.write(f"euro series: geometric real {ge ** (1 / len(real_eur)) - 1:.4f}, 1 -> {ge:.1f}, min {min(real_eur):.4f}, max {max(real_eur):.4f}\n")
+    r4 = lambda xs: [round(x, 4) for x in xs]
+    print("window.WORLD = " + json.dumps({"first": first, "real": real, "bonds": r4(bonds), "realEur": r4(real_eur), "bondsEur": r4(bonds_eur)}) + ";")
 
 
 if __name__ == "__main__":
